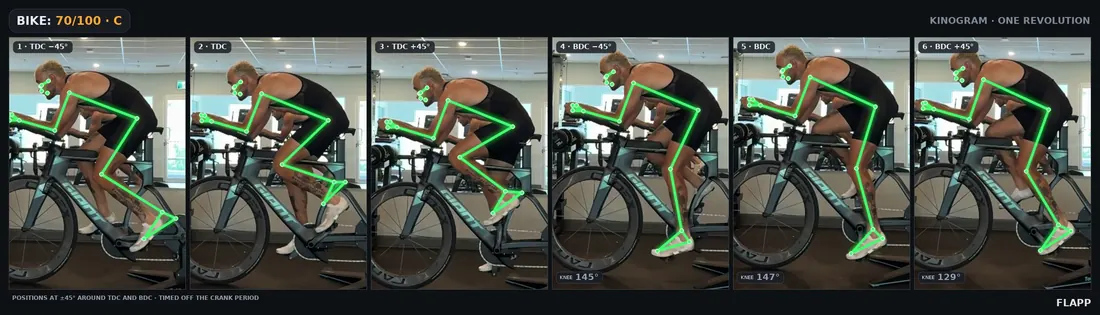
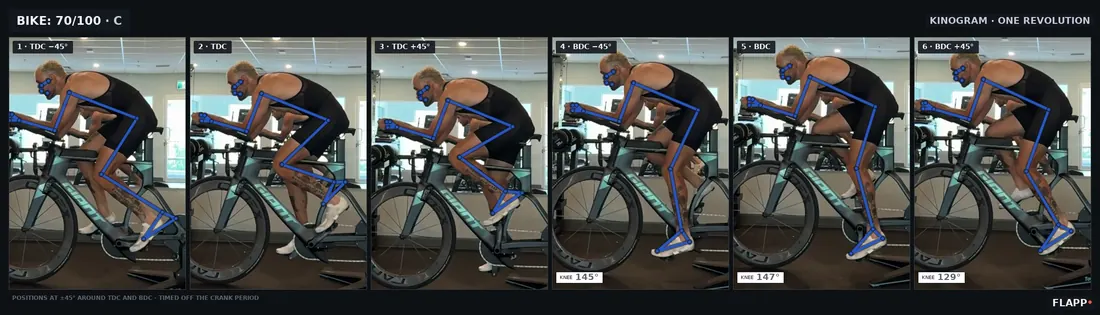
Sample reports re-rendered on the new overlay
The four /examples fixtures still carried keyframes and kinograms drawn
by the old neon renderer, so the one page a visitor sees before signing
up showed a product that no longer exists. Rebuilt from the same clips
with scripts/build_examples.py: every score and measurement is
unchanged (94 A, 70 C, and the two photos); only the pictures moved to
the accent skeleton on its halo and the solid chips.

On the sample page the back link and the badge no longer share a line,
and the grade sits beside the score the way the report shows it.

diff --git a/backend/app/services/examples.py b/backend/app/services/examples.py
@@ -451,7 +451,8 @@ _CSS = """
    number: the word overflowed it and sat on top of "93/100". Stacked, and
    sized by its content -- min-width equal to the height keeps a single
    letter round, a word stretches the pill. */
-.ex-score{display:flex;flex-direction:column;align-items:flex-start;gap:12px}
+.ex-score{display:flex;flex-direction:row;align-items:baseline;flex-wrap:wrap;gap:6px 12px}
+.ex-score .why,.ex-cov{flex-basis:100%}
 .ex-score .n{font-family:var(--f-mono);font-size:56px;font-weight:500;color:var(--c-ink);
   line-height:1;letter-spacing:-.03em;font-variant-numeric:tabular-nums}
 .ex-score .n small{font-size:14px;color:var(--c-ink-faint);font-weight:400;letter-spacing:0}
@@ -523,7 +524,8 @@ _CSS = """
 .ex-btn{display:inline-block;background:var(--c-blue);color:#fff;font-weight:500;
   padding:11px 24px;border-radius:0;text-decoration:none;min-height:44px}
 .ex-btn:hover{background:var(--c-blue-dk)}
-.ex-back{display:inline-block;font-size:13.5px;color:var(--c-blue-dk);margin-bottom:16px;text-decoration:none}
+.ex-back{display:block;font-size:13.5px;color:var(--c-blue-dk);margin-bottom:14px;text-decoration:none}
+.ex-back:hover{text-decoration:underline;text-underline-offset:3px}
 /* Full column width: the rule above it spans the page, and a 76ch measure
    under a full-width rule read as a broken paragraph rather than a note. */
 .ex-note{font-size:12.5px;color:var(--c-ink-faint);line-height:1.6;margin-top:30px;
